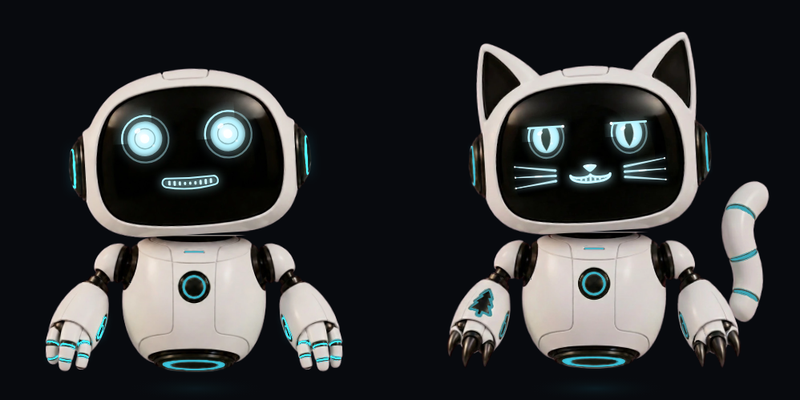
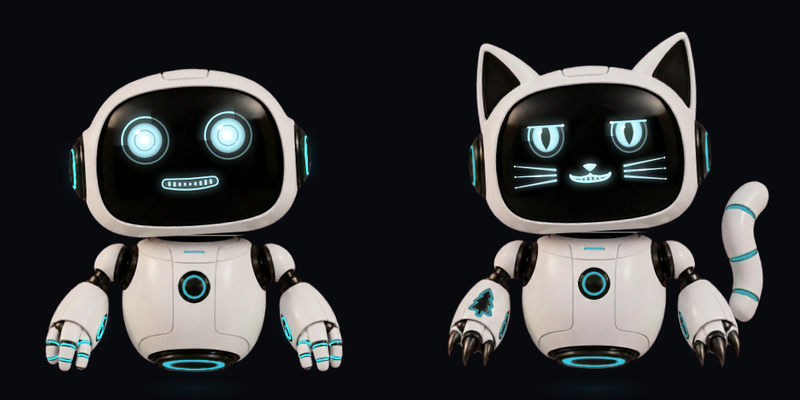
Hovi 0.1.1: smile only in real pauses; fixed previews

diff --git a/src/ca/ponderosa/hovi/Drawer.java b/src/ca/ponderosa/hovi/Drawer.java
@@ -58,6 +58,8 @@ final class Drawer {
 
     private float last = -1;
     private float shown;
+    /** When the mouth last moved, so the answering smile waits for a real pause and not a gap between words. */
+    private float loudAt;
     private float phon = 0.5f;
     private float gazeX, gazeY, gazeTX, gazeTY, nextGaze;
     private float blinkStart = -1, nextBlink = 1.5f, happyUntil, nextHappy = 6;
@@ -228,6 +230,7 @@ final class Drawer {
 
         float before = shown;
         shown += (level - shown) * Math.min(1, dt * 18);
+        if (shown >= 0.05f) loudAt = now;
         // A new mouth shape at the start of each syllable
         if (before * GAIN < 0.12f && shown * GAIN >= 0.12f) phon = random.nextFloat();
 
@@ -496,7 +499,7 @@ final class Drawer {
         float gx = gazeX * 26, gy = gazeY * 14;
         float bf = blinkFactor(now);
         boolean happy = !v.calm && (("idle".equals(state) && now < happyUntil)
-            || ("answering".equals(state) && shown < 0.05f && Math.sin(now * 0.9) > 0.55));
+            || ("answering".equals(state) && now - loudAt > 0.5f && Math.sin(now * 0.9) > 0.55));
 
         // Eyes, in the holiday's outline: the pumpkin's triangles at Halloween (round and wide while listening) and
         // hearts at Valentine's (round while muted)
